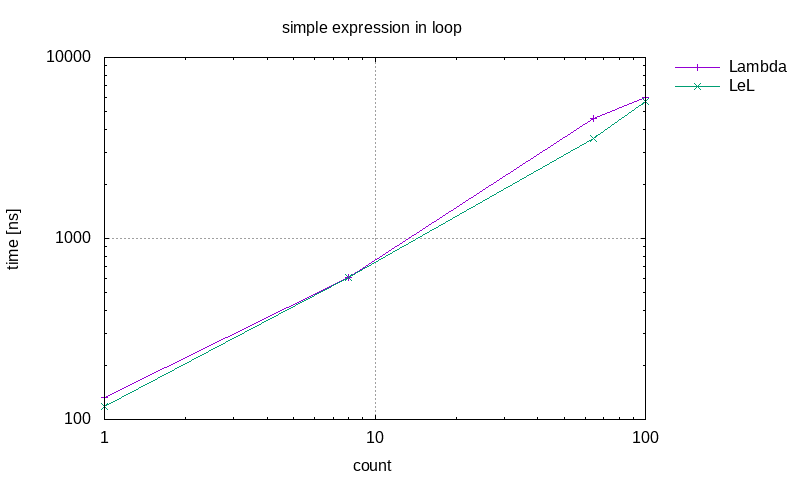
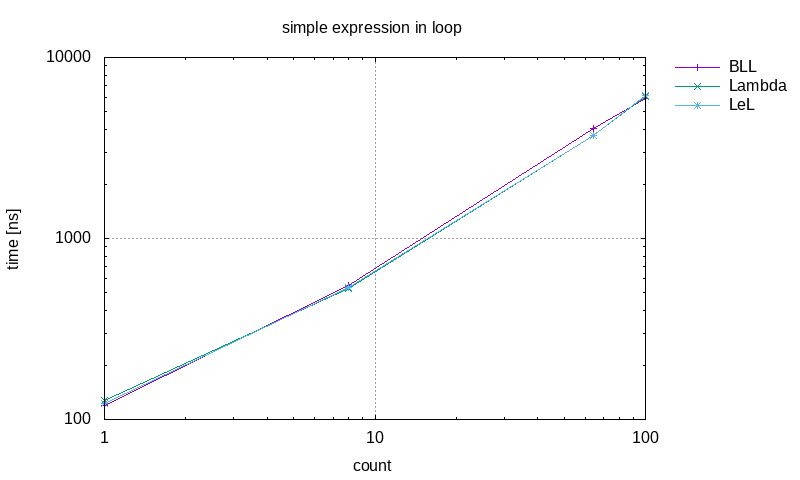
Add BLL to test

diff --git a/test/benchmark/simple_expression_in_loop.cpp b/test/benchmark/simple_expression_in_loop.cpp
@@ -25,3 +25,13 @@ auto eLambda = [](auto const _x) { return _x * _x + 3; };
 
 BENCHMARK_CAPTURE(simple_expression_in_loop, LeL, eLeL)->Range(0, 100);
 BENCHMARK_CAPTURE(simple_expression_in_loop, Lambda, eLambda)->Range(0, 100);
+
+#ifdef LEL_HAS_BOOST
+
+#include <boost/lambda/lambda.hpp>
+
+auto eBLL   = boost::lambda::_1 * boost::lambda::_1 + 3;
+
+BENCHMARK_CAPTURE(simple_expression_in_loop, BLL, eBLL)->Range(0, 100);
+
+#endif  // LEL_HAS_BOOST
